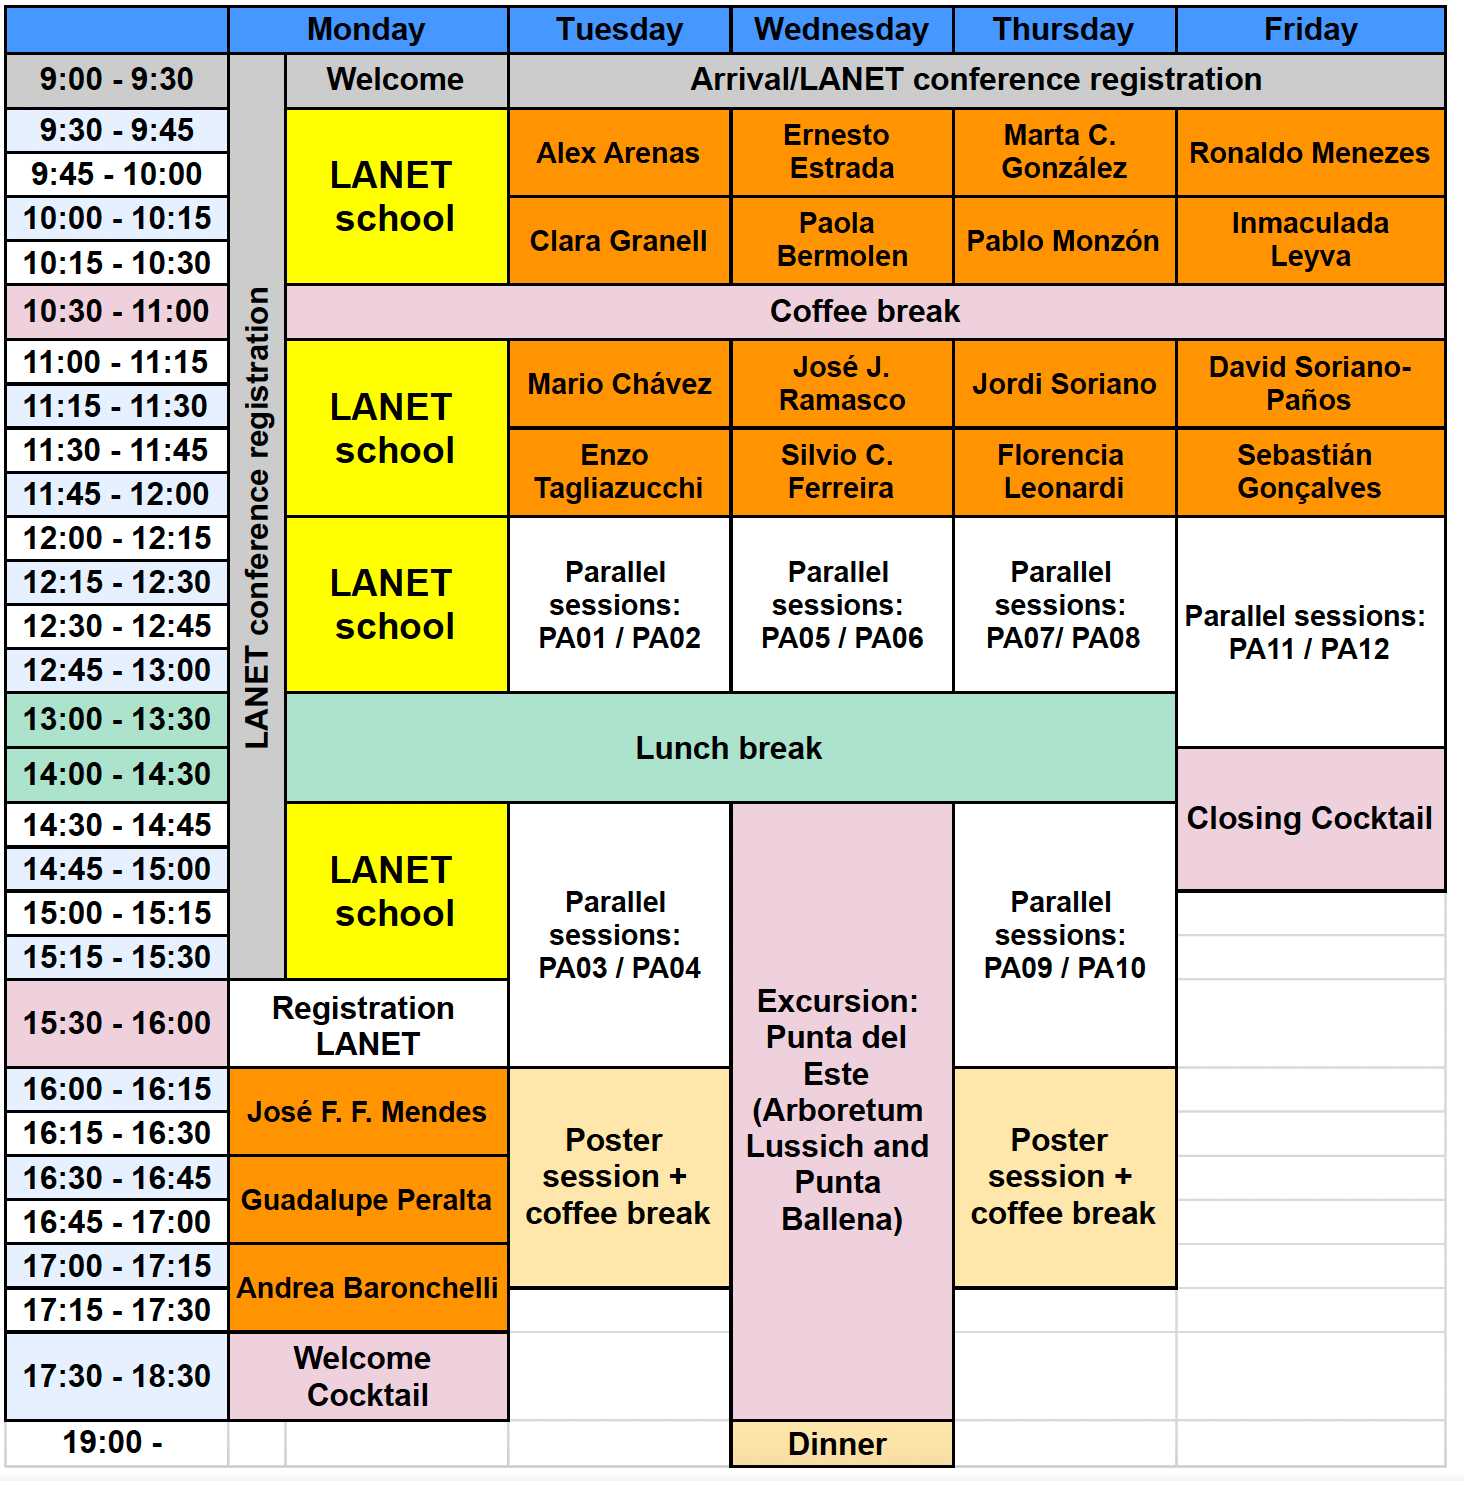
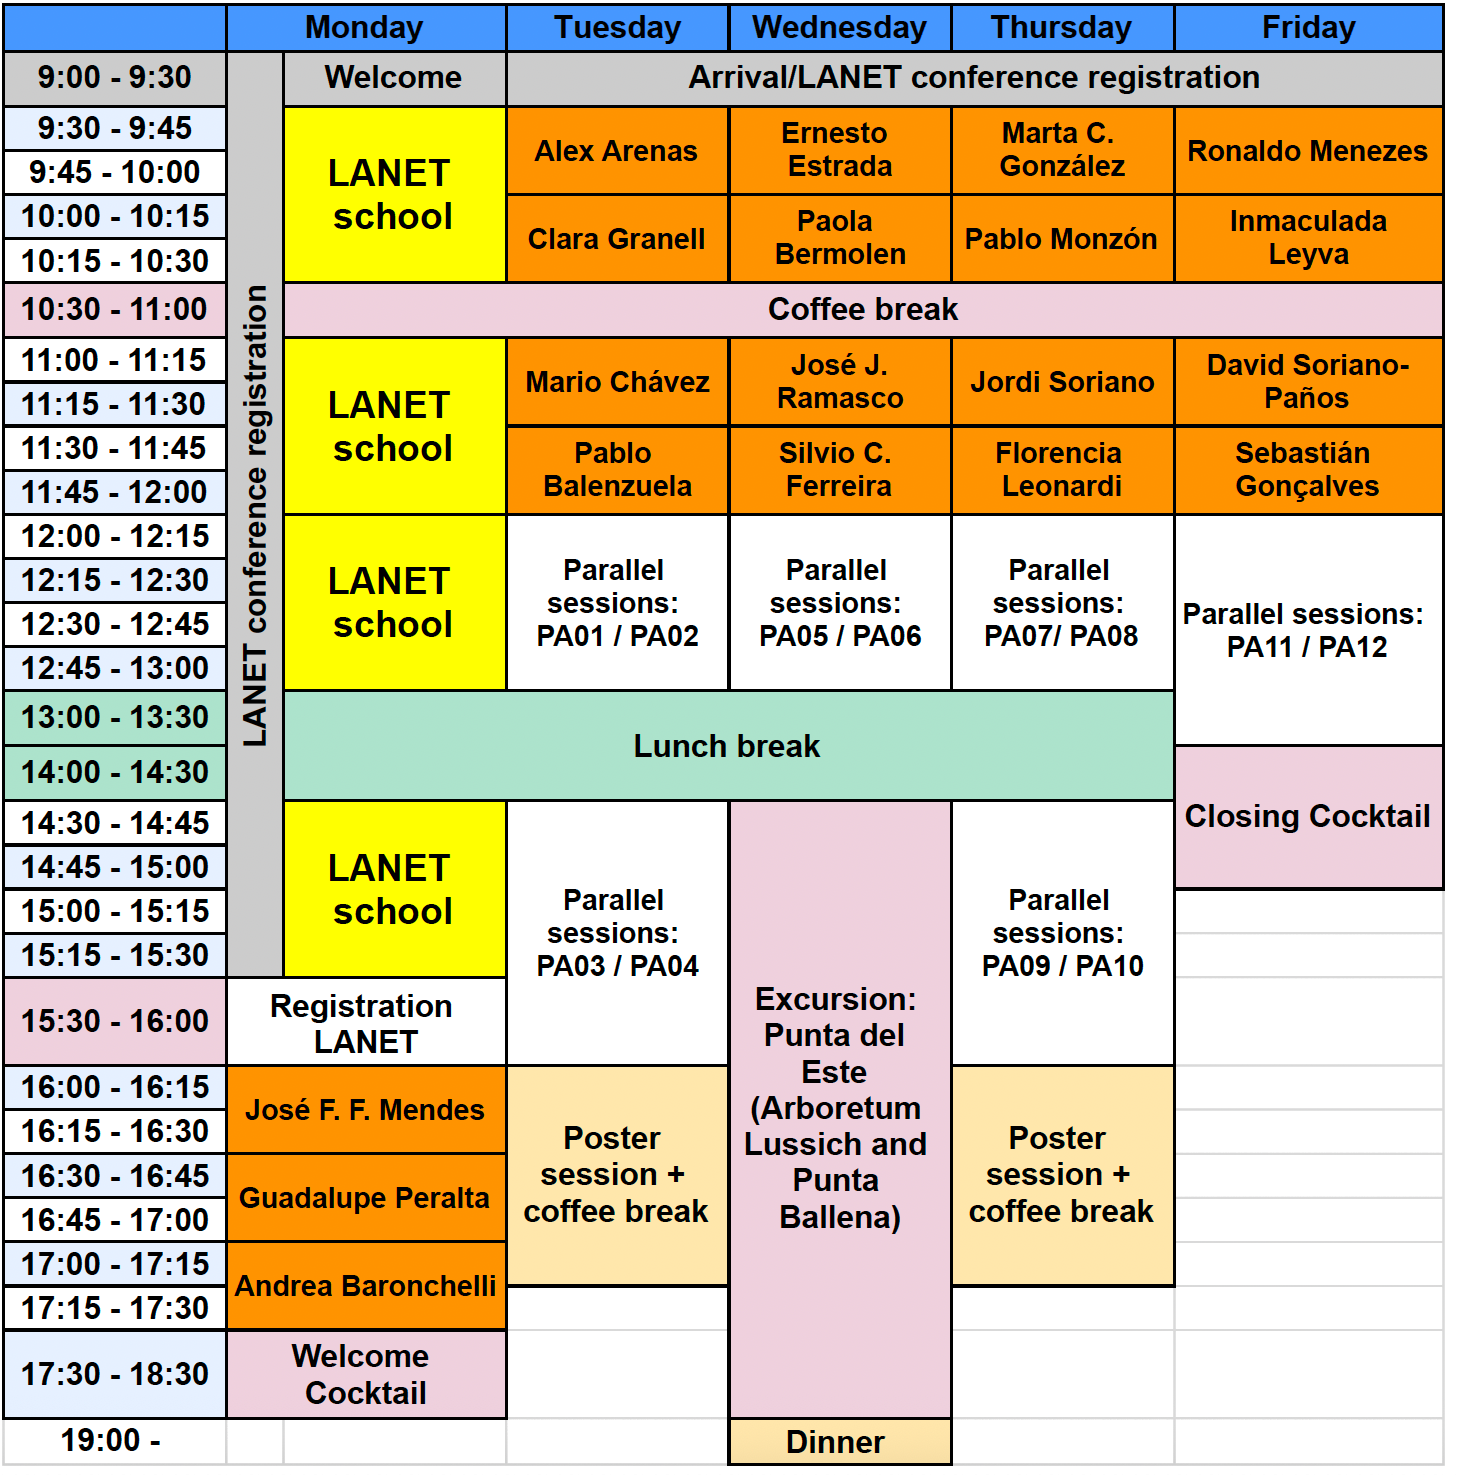
add balenzuela as plenary

diff --git a/index.html b/index.html
@@ -189,9 +189,9 @@ This meeting is also structured to encourage active participation from young sci
 				<div class="wow bounceInUp" data-wow-delay="0.2s">
                 <div class="team boxed-grey">
                     <div class="inner">
-						<h5> <a href="https://www.cocucolab.org"> Enzo Tagliazucchi</a></h5>
+						<h5> <a href="http://users.df.uba.ar/balen/blog/">Pablo Balenzuela</a></h5>
                         <p class="subtitle"> UBA <br> Buenos Aires <br> Argentina </p>
-                        <div class="avatar"><img src="img/team/tagliazucchi.jpeg" alt="" class="img-responsive img-circle" style="width:100%;" /></div>
+                        <div class="avatar"><img src="img/team/pablo.png" alt="" class="img-responsive img-circle" style="width:100%;" /></div>
                     </div>
                 </div>
 				</div>
@@ -490,7 +490,7 @@ This meeting is also structured to encourage active participation from young sci
     <th style="text-align: center;">Morning</th>
     <td><b>PA01:</b> <br> Mojica-Nava <br> Almendral <br> Salimi</td>
 <td><b>PA02:</b> <br> Lopez <br> Borthagaray <br> Seaman </td>
-<td><b>PA05:</b> <br> Silva-Costa <br> Cabana <br> Balenzuela</td>
+<td><b>PA05:</b> <br> Silva-Costa <br> Cabana </td>
 <td><b>PA06:</b> <br> Alvarez <br> Pichardo <br> De Leon</td>
 <td><b>PA07:</b> <br> Betancourt <br> Anzo <br> Angel </td>
 <td><b>PA08:</b> <br> Vera-Avila <br> Gutierrez <br> Usuga</td>
